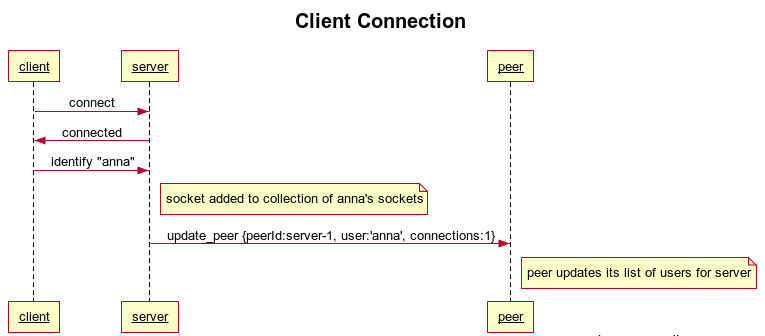
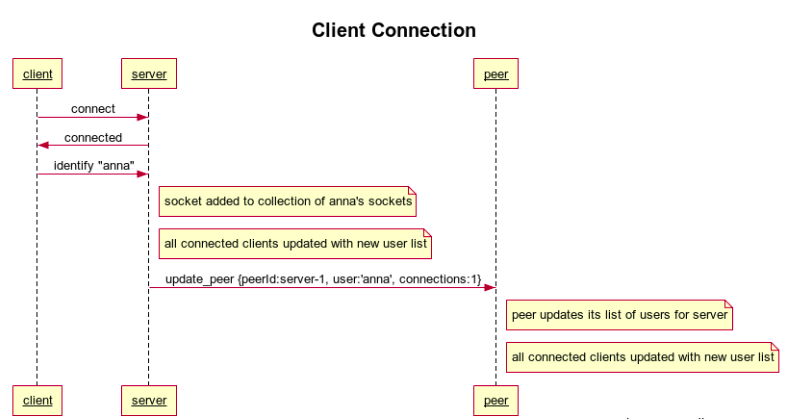
Added support for sending user list to all clients whenever a user connects or disconnects.

diff --git a/app/server/socket-server.js b/app/server/socket-server.js
@@ -36,7 +36,8 @@ const IDENT = 'identify';
 const CONNECT = 'connect';
 const CONNECTION = 'connection';
 const DISCONNECT = 'disconnect';
-const UPDATE_PEER = 'update-peer';
+const UPDATE_PEER = 'update_peer';
+const UPDATE_CLIENT = 'update_client';
 
 // Connection hashes
 let peers = {};
@@ -115,6 +116,8 @@ function onConnection(connection) {
 
     // Handle an identification event from a user
     function onIdentify(userId) {
+
+        // Store the connection for this user
         let user = users[userId];
         if (user){
             user.push(connection);
@@ -122,7 +125,12 @@ function onConnection(connection) {
             users[userId] = [connection];
         }
         usersByConnection[connection.id] = userId;
+
+        // Log the new connection and update peers
         reportUserConnections(userId);
+
+        // Send new user list to all the clients (including this one)
+        updateClients();
     }
 
     // Handle an 'im' event from a client
@@ -191,6 +199,9 @@ function onConnection(connection) {
                 if (index > -1) users.splice(index,1);
             }
         }
+
+        // Let all the clients know the user list has changed
+        updateClients();
     }
 
     // Handle disconnect from a client
@@ -243,4 +254,28 @@ function onConnection(connection) {
             if (peer) peer.emit(UPDATE_PEER, message);
         });
     }
+
+}
+
+// Update clients with user list
+function updateClients(){
+    console.log(`Updating clients with new user list...`);
+    let message = {
+        list: getSystemUserList()
+    };
+    Object.keys(users).forEach(user =>
+        users[user].forEach(connection =>
+            connection.emit(UPDATE_CLIENT, message)
+        )
+    );
+}
+
+function getSystemUserList(){
+    let usersHash = Object.assign({}, users);
+    Object.keys(peerUsers).forEach( peerId => {
+        peerUsers[peerId].forEach( user => usersHash[user.id] = true);
+    });
+    let uniqueUsers = Object.keys(usersHash);
+    uniqueUsers.sort();
+    return uniqueUsers;
 }

diff --git a/app/client/chat-client.html b/app/client/chat-client.html
@@ -21,6 +21,7 @@
             const DISCONNECT    = 'disconnect';
             const CONNECT_ERR   = 'connect_error';
             const RECONNECT_ERR = 'reconnect_error';
+            const UPDATE_CLIENT = 'update_client';
 
             // Initialize the page when loaded
             function init()
@@ -62,9 +63,11 @@
                     writeStatus("CONNECTED");
                     divConnected.className = 'show';
                     divDisconnected.className = 'hide';
-                    sendIdent(user); // Should be a a user id, using a name for clarity
+                    sendIdent(user);
 
-                    socket.on(IM, onIm );
+                    socket.on(IM, onIm);
+                    socket.on(UPDATE_CLIENT, onUpdateClient);
+
                     function onIm(message)
                     {
                         if (message.from === user) {
@@ -73,6 +76,12 @@
                             writeStatus(`RECEIVED: ${IM} / ${message.text} <BR> FROM: ${message.from}`);
                         }
                     }
+
+                    function onUpdateClient(list) {
+                        console.log(list);
+                    }
+
+
                 }
 
                 // Received disconnect event from socket

diff --git a/README.md b/README.md
@@ -15,19 +15,23 @@ After a server instance connects to a peer, it sends a list of its users and the
 that user currently has open. Subsequently, when users connect and disconnect, the server instance
 updates all its peers about that user's connection status.
 
-When an instance receives a message for a user it doesn't know, 
-it will forward that message to any peers known to have a connection to that user.
-
-Also, since a user could be connected to multiple server instances with separate clients, even if
-the user was connected to the server instance and sent the message, the message will also be forwarded 
-to any peers known to have a connection to that user.
-
-Finally, when a user sends a message, and since they may have other connections on the instance or its peers,
-the message must also be sent to all the user's connections so that their own message histories
-will be able to reflect the complete discussion.
-
 Since every server instance knows which users are connected to each of its peers, no database is required,
 to track where users are connected, a common bottleneck with Star Topology systems.
+
+### Routing messages to recipients
+When a server instance receives a message for a user it doesn't know, it will forward that message to 
+any peers known to have a connection to that user.
+
+Since the intended recipeint could be connected to multiple server instances with separate clients, 
+the message will also be forwarded to any peers known to have a connection to the recipient.
+
+### Keeping the sender's clients in sync
+The sender's message must also be sent to all their connections on all servers so that their
+message histories will be able to reflect the complete discussion.
+
+### Updating clients with the user list
+Whenever a user connects to (or disconnects from) a server instance, all users connected to the mesh
+will be sent a sorted, unique list of currently connected users.
 
 ## Setup
 
@@ -102,30 +106,41 @@ If a connected peer disconnects at runtime, other instances will attempt to reco
     Outbound connection to peer: server-4
 
 When a server instance receives an update from a peer at connection time, it is a list of all users connected to
-that peer.
+that peer. It then updates all its connected clients with the new user list.
 
     Received update from peer: server-3
     Replacing user list for peer: server-3
+    Updating clients with new user list...
+
 
 When a server instance receives an update from a peer about an individual user's connection status, it amends its
-internal list of users.
+internal list of users. It then updates all its connected clients with the new user list.
 
     Received update from peer: server-1
     Replacing user Anna in list for peer: server-1
+    Updating clients with new user list...
+
     Received update from peer: server-3
     Adding user Billy to list for peer: server-3
+    Updating clients with new user list...
+
     Received update from peer: server-2
     Removing user Anna from list for peer: server-2
+    Updating clients with new user list...
+
 
 ### Client connections
 When a client connects to an instance, it sends the user's name, and the server hangs onto the socket, associating it with that user.
 Remember that a user can connect multiple times, so a collection of sockets is kept for each user. Also, when a user connects, the 
-server instance updates all its peers with the connection status of that user.
+server instance updates all its peers with the connection status of that user and then updates all its connected clients with the new user list.
 
     User: Anna connected 1 time.
     Updating peers with connection count for user: Anna...
+    Updating clients with new user list...
     User: Anna connected 2 times.
     Updating peers with connection count for user: Anna...
+    Updating clients with new user list...
+
 
 When a client sends a message to a user who is not on the same server instance they are connected to, the message is forwarded any peers known to have a connection to that user.
 
@@ -146,6 +161,13 @@ to all of the user's connected clients. It does not forward a forwarded message.
 The rudimentary client has a dropdown with two predefined users (Anna and Billy), 
 another dropdown with four possible ports to connect to, and a 'Connect' button.
 
+The following features are out of scope for this simple client, but are being added to a 
+more sophisticated [React-based client](https://github.com/cliffhall/react-chat-client).
+
+  * Client-side message history. 
+  * Client-side connected user list. This client simply logs the user list to the console when it is received. 
+  
+
 ### Unconnected client
 ![Unconnected client](img/client-not-connected.png "Unconnected client")
 
@@ -153,13 +175,12 @@ Choose a user and port then click 'Connect'. The recipient of your messages will
 Launch another browser and log in as the other user, choosing either the same or a different port. Send messages
 back and forth. 
 
-A client-side message history is currently outside the scope of this demo, but it is on the TODO list.
-
 ### User with multiple connections receives IM in all clients
 ![User with multiple connections receives IM](img/multi-client-user-receives.png "User with multiple connections receives IM")
 
 ### User with multiple connections sends IM, is notified in all clients so message histories can stay in sync
 ![User with multiple connections sends IM](img/multi-client-user-sends.png "User with multiple connections sends IM")
+
 
 ## Protocol
 ![Client Connection Sequence](img/sequence-client-connection.png "Client Connection Sequence")
@@ -172,12 +193,13 @@ A client-side message history is currently outside the scope of this demo, but i
 
 ![Server Receives Forwarded IM Sequence](img/sequence-server-receives-forward.png "Server Receives Forwarded IM Sequence")
 
+ 
+
+
 ## TODO 
 
   * Add shell that opens multiple clients in iframes for testing. (Thanks to Kyle at Oasis Digital for this suggestion)
   
-  * Make user an object instead of a string, giving it an id and a name.
-
   * Add cluster module support (vertical scaling) so a single port will do on a machine, while guaranteeing optimal use of CPUs.
 
   * Add richer client with message history display.
